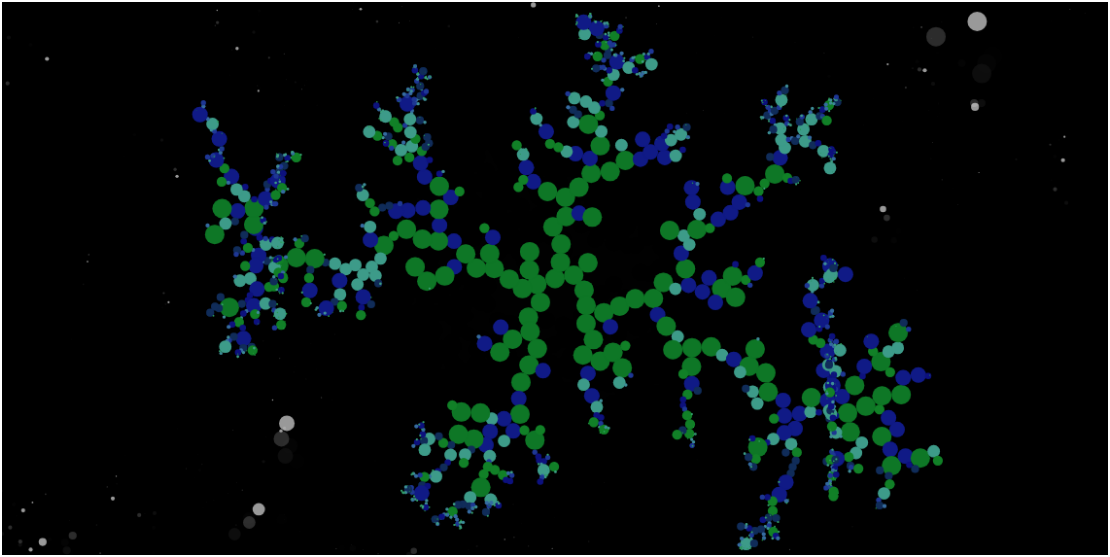
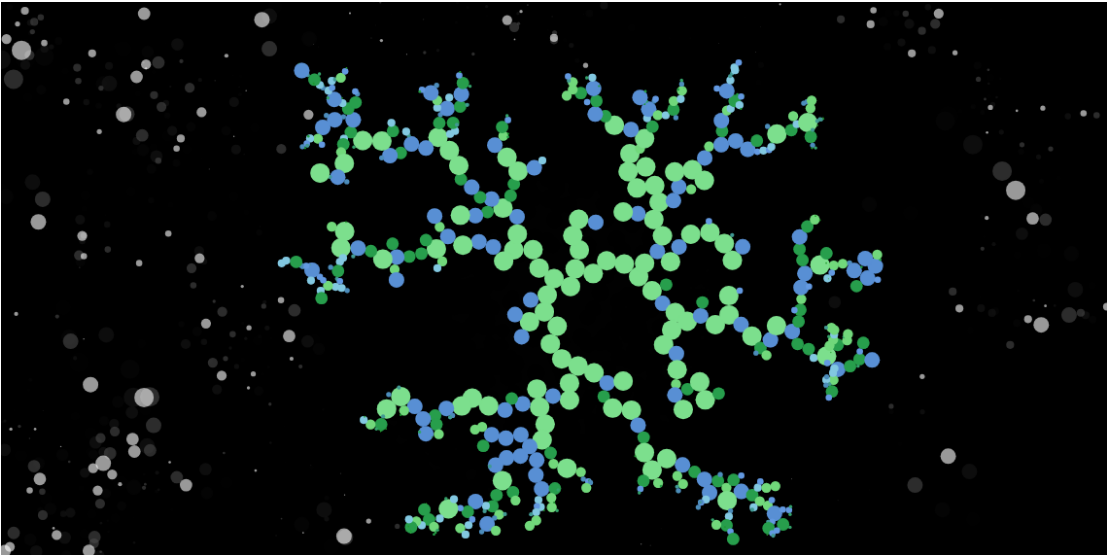
changes

diff --git a/src/app/simulations/boids/SimuEngineBoid.tsx b/src/app/simulations/boids/SimuEngineBoid.tsx
@@ -1,6 +1,7 @@
 import { RefObject } from "react";
 import { SimuEngine } from "../SimuEngine";
 import { Boid } from "./Boid";
+import { interpolateRgbBasisClosed } from "d3-interpolate";
 
 // Boids Simulation engine
 export class SimuEngineBoids extends SimuEngine {
@@ -61,8 +62,11 @@ export class SimuEngineBoids extends SimuEngine {
     public do(): void {
         // This method is called in an animation loop.
         if (!this.ctx) return;
-        // Clear the canvas before rendering the next frame.
-        this.ctx.clearRect(0, 0, this.canvas.width, this.canvas.height);
+
+        // Draw the background with a regular fillRect
+        this.ctx.fillStyle = "rgba(0, 0, 0, 0.71)"; // Adjust the background color
+        this.ctx.fillRect(0, 0, this.canvas.width, this.canvas.height);
+
         // Update the position and behavior of each boid in the simulation.
         for (const boid of this.boids) {
             // Build an array of other boids (excluding the current boid).
@@ -78,22 +82,8 @@ export class SimuEngineBoids extends SimuEngine {
         if (!this.ctx) return;
         // Map distToFirstNeighbor to a color between red (0) and blue (500).
         const distToFirstNeighbor = boid.distToFirstNeighbor;
-        let r, g, b;
 
-        if (distToFirstNeighbor <= 50) {
-            // Transition from red to green for lower values.
-            r = 255 - (distToFirstNeighbor / 50) * 255;
-            g = (distToFirstNeighbor / 50) * 255;
-            b = 0;
-        } else {
-            // Transition from green to blue for higher values.
-            r = 0;
-            g = 255 - ((distToFirstNeighbor - 50) / 50) * 255;
-            b = ((distToFirstNeighbor - 50) / 50) * 255;
-        }
-
-        // Calculate the color based on distToFirstNeighbor.
-        const color = `rgb(${r}, ${g}, ${b})`;
+        const color = this.getColorBasedOnDistance(distToFirstNeighbor, 25, 200);
 
         // Implement rendering logic for a single boid.
         // You can use this.context to draw the boid on the canvas.
@@ -113,11 +103,29 @@ export class SimuEngineBoids extends SimuEngine {
        
         this.ctx.fillStyle = color;
         this.ctx.fill();
-       
-        this.ctx.fillStyle = color;
-        this.ctx.fill();
 
         this.ctx.restore();
+    }
+
+    // Function to calculate the circle color based on this.r
+    private getColorBasedOnDistance(dist: number, minDist: number, maxDist: number): string {
+
+        const colors = [
+            'rgb(152, 251, 152)',     // pale green
+            'rgb(0, 128, 0)',         // green
+            'rgb(60, 179, 113)',      // medium sea green
+            'rgb(70, 130, 180)',      // steel blue
+            'rgb(100, 149, 237)',     // cornflower blue
+            'rgb(135, 206, 235)'      // sky blue
+        ];
+
+        // Create an interpolation function for colors
+        const interpolateRes = interpolateRgbBasisClosed(colors);
+    
+        // Interpolate the color based on radius
+        const color = interpolateRes((dist - minDist) / (minDist - maxDist));
+    
+        return color;
     }
 
     stop(): void {

diff --git a/src/app/simulations/sort/SimuEngineSort.tsx b/src/app/simulations/sort/SimuEngineSort.tsx
@@ -1,5 +1,6 @@
 import { RefObject } from "react";
 import { SimuEngine } from "../SimuEngine";
+import { interpolateRgbBasisClosed } from "d3-interpolate";
 
 // Paths Simulation engine
 
@@ -44,18 +45,37 @@ export class SimuEngineSort extends SimuEngine {
     renderBar(bar: Bar): void {
         if (!this.ctx) return;
         const x = bar.index * this.barWidth;
-        const y = 0;
+        const y = this.canvas.height;
         const width = this.barWidth;
-        const height = bar.value * this.valueToHeightRatio;
-        const borderWidth = 2;
+        const height = - bar.value * this.valueToHeightRatio;
+        // const borderWidth = 2;
 
-        this.ctx.fillStyle = 'blue';
+        // this.ctx.fillStyle = 'white';
+        // this.ctx.fillRect(x - borderWidth, y - borderWidth, width + 2 * borderWidth, height + 2 * borderWidth);
 
-        this.ctx.fillStyle = 'white';
-        this.ctx.fillRect(x - borderWidth, y - borderWidth, width + 2 * borderWidth, height + 2 * borderWidth);
-
-        this.ctx.fillStyle = 'blue';
+        this.ctx.fillStyle = this.getColorBasedOnDistance(bar.value, 0, this.maxBarValue);
         this.ctx.fillRect(x, y, width, height);
+    }
+
+    // Function to calculate the circle color based on this.r
+    private getColorBasedOnDistance(height: number, minHeight: number, maxHeight: number): string {
+
+        const colors = [
+            'rgb(152, 251, 152)',     // pale green
+            'rgb(0, 128, 0)',         // green
+            'rgb(60, 179, 113)',      // medium sea green
+            'rgb(70, 130, 180)',      // steel blue
+            'rgb(100, 149, 237)',     // cornflower blue
+            'rgb(135, 206, 235)'      // sky blue
+        ];
+
+        // Create an interpolation function for colors
+        const interpolateRes = interpolateRgbBasisClosed(colors);
+    
+        // Interpolate the color based on radius
+        const color = interpolateRes((height - minHeight) / (minHeight - maxHeight));
+    
+        return color;
     }
 
     sort(): void {
@@ -84,7 +104,9 @@ export class SimuEngineSort extends SimuEngine {
     do(): void {
         if (!this.ctx) return;
     
-        this.ctx.clearRect(0, 0, this.canvas.width, this.canvas.height);
+        // Draw the background with a regular fillRect
+        this.ctx.fillStyle = "rgba(0, 0, 0, 0.71)"; // Adjust the background color
+        this.ctx.fillRect(0, 0, this.canvas.width, this.canvas.height);
     
         // Check if there are moves left to play
         if (this.timer < this.moves.length) {

diff --git a/src/app/simulations/dla/SimuEngineDLA.tsx b/src/app/simulations/dla/SimuEngineDLA.tsx
@@ -180,12 +180,14 @@ class Walker {
     private getColorBasedOnRadius(radius: number, minRadius: number, maxRadius: number): string {
 
         const colors = [
-            'rgb(0, 128, 0)',     // green
-            'rgb(60, 179, 113)',  // medium sea green
-            'rgb(70, 130, 180)',  // steel blue
-            'rgb(0, 0, 128)',     // navy
-            'rgb(25, 25, 112)'    // midnight blue
+            'rgb(152, 251, 152)',     // pale green
+            'rgb(0, 128, 0)',         // green
+            'rgb(60, 179, 113)',      // medium sea green
+            'rgb(70, 130, 180)',      // steel blue
+            'rgb(100, 149, 237)',     // cornflower blue
+            'rgb(135, 206, 235)'      // sky blue
         ];
+        
 
         // Create an interpolation function for colors
         const interpolateRes = interpolateRgbBasisClosed(colors);

diff --git a/src/app/App.tsx b/src/app/App.tsx
@@ -79,13 +79,13 @@ function App() {
     },
     {
       tabName: "Perlin Noise",
-      description: "Perlin noise flat simulation in 2D canvas.",
+      description: "Perlin noise flat simulation in 2D canvas (work in progress).",
       onTryClick: () => handleTryClick("Terrain generation"),
       pathImg: perlinImg // Replace 'fractalImg' with the path to your fractal image
     } ,
     {
       tabName: "Blob Simulation",
-      description: "Diffusion-Limited Aggregation in 2D canvas (work in progress).",
+      description: "Diffusion-Limited Aggregation in 2D canvas.",
       onTryClick: () => handleTryClick("Fractal Simulation"),
       pathImg: blobImg // relative path to image
       // Replace 'fractalImg' with the path to your fractal image
